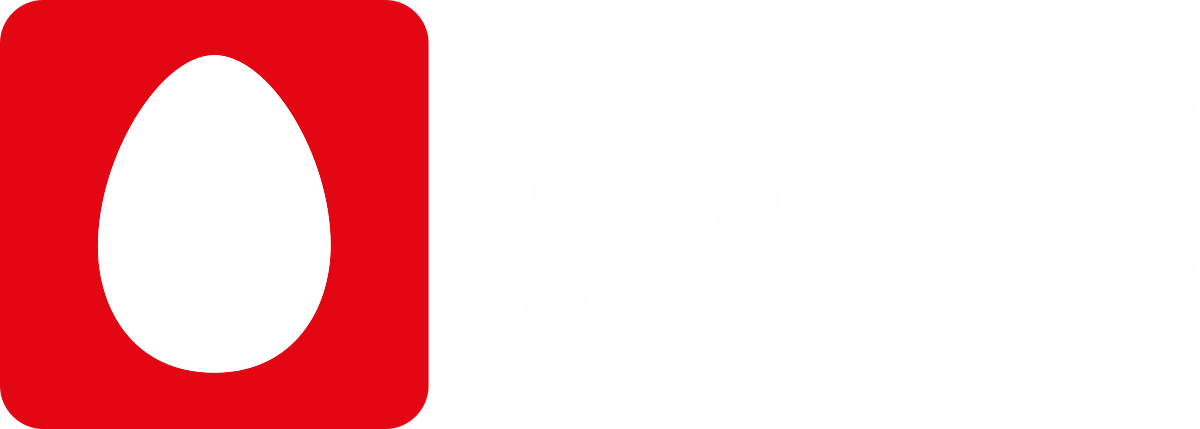
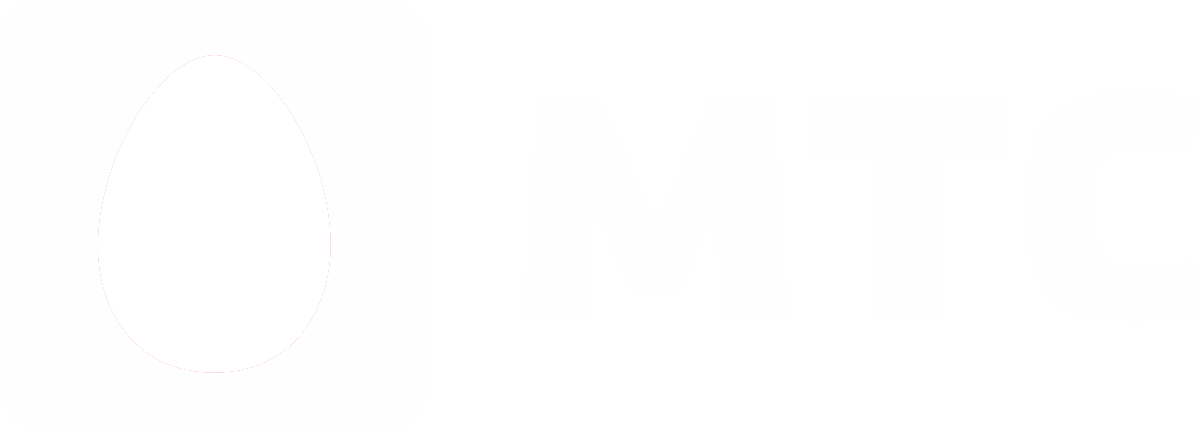
Подключил библиотеку

Changed region(s): [[0.0, 0.0, 0.37, 1.0]]

diff --git a/index.html b/index.html
@@ -9,23 +9,26 @@
 </head>
 <body>
     <div class="container">
-        <div class="left">
-            <h1 class="text-content">Карта банка</h1>
-            <div class="card-wrapper">
-                <div class="card-back">
-                    <div class="card-back__line"></div>
-                    <input type="text" id="cvv">
-                </div>
-                <div class="card-front">
-                    <img src="./img/1y8qc5dv.png" alt="" class="card-image">
-                    <img src="./img/credit-card.png" alt="" class="card-logo">
-                    <input type="text" id="card-number">
-                    <input type="text" id="card-month">
-                    <input type="text" id="card-year">
+        <div class="card-block">
+            <div class="left">
+                <h1 class="card-text">Карта банка</h1>
+                <div class="card-wrapper">
+                    <div class="card-back">
+                        <div class="card-back__line"></div>
+                        <input type="text" id="cvv">
+                    </div>
+                    <div class="card-front">
+                        <img src="" alt="" class="card-image">
+                        <img src="" alt="" class="card-logo">
+                        <input type="text" id="card-number">
+                        <input type="text" id="card-month">
+                        <input type="text" id="card-year">
+                    </div>
                 </div>
             </div>
         </div>
-        <div class="right"></div>
     </div>
+    <script src="./node_modules/card-info/dist/card-info.min.js"></script>
+    <script src="./js/script.js"></script>
 </body>
 </html>

diff --git a/js/script.js b/js/script.js
@@ -1,0 +1,20 @@
+document.querySelector('#card-number').oninput = function () {
+    let cardNum = this.value;
+    if (cardNum.trim().length > 5) {
+        let cardInfo = new CardInfo(cardNum.trim(), {
+            banksLogosPath: './node_modules/card-info/dist/banks-logos/',
+            brandsLogosPath: './node_modules/card-info/dist/brands-logos/'
+        });
+
+        console.log(cardInfo.bankName);
+        console.log(cardInfo.bankLogo);
+        console.log(cardInfo.brandLogo);
+        console.log(cardInfo.backgroundColor);
+
+
+        document.querySelector('.card-image').src = cardInfo.bankLogo;
+        document.querySelector('.card-logo').src = cardInfo.brandLogo;
+        document.querySelector('.card-front').style.backgroundColor = cardInfo.backgroundColor;
+
+    }
+}

diff --git a/css/style.css b/css/style.css
@@ -1,3 +1,23 @@
+.container {
+  margin: 0 auto;
+}
+
+.card-text {
+  text-align: center;
+  text-transform: uppercase;
+  font-style: italic;
+  font-weight: normal;
+}
+
+.card-block {
+  display: -webkit-box;
+  display: -ms-flexbox;
+  display: flex;
+  -webkit-box-pack: center;
+      -ms-flex-pack: center;
+          justify-content: center;
+}
+
 .card-wrapper {
   width: 751px;
   height: 381px;
@@ -28,14 +48,11 @@
   height: 343px;
   border: 1px solid grey;
   border-radius: 15px;
-  background: white;
-  background: #de1612;
+  background: #DEDEDE;
   position: absolute;
 }
 
 .card-image {
-  width: 100px;
-  height: 40px;
   position: absolute;
   left: 30px;
   top: 40px;
